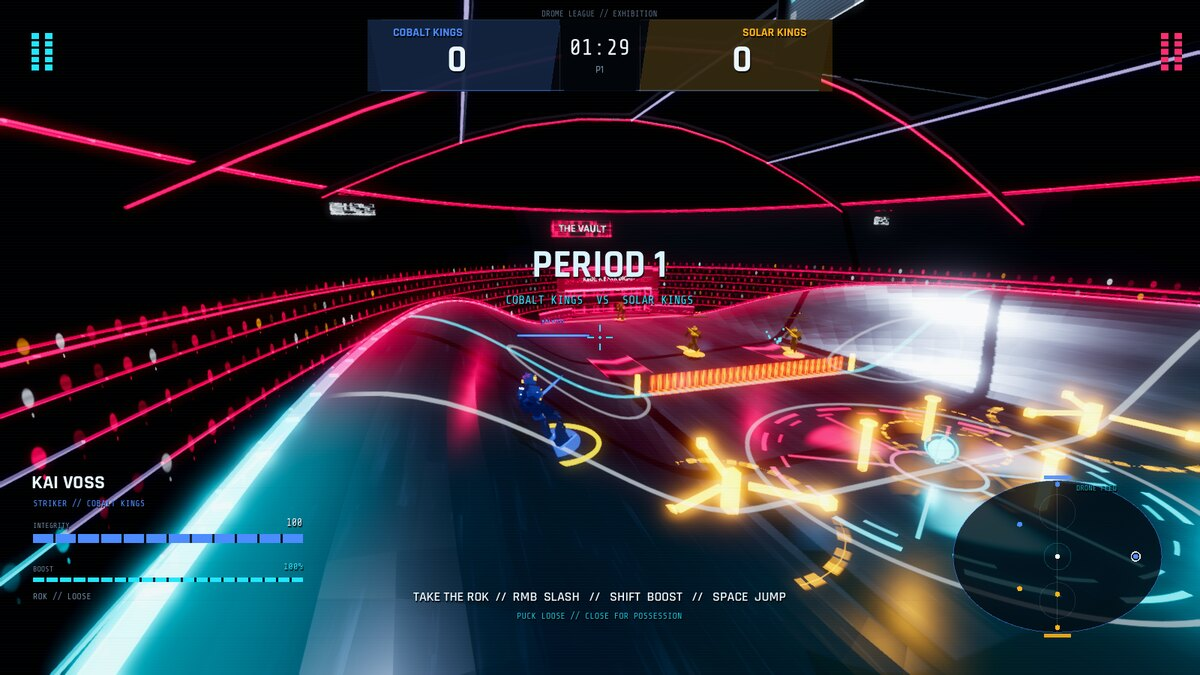
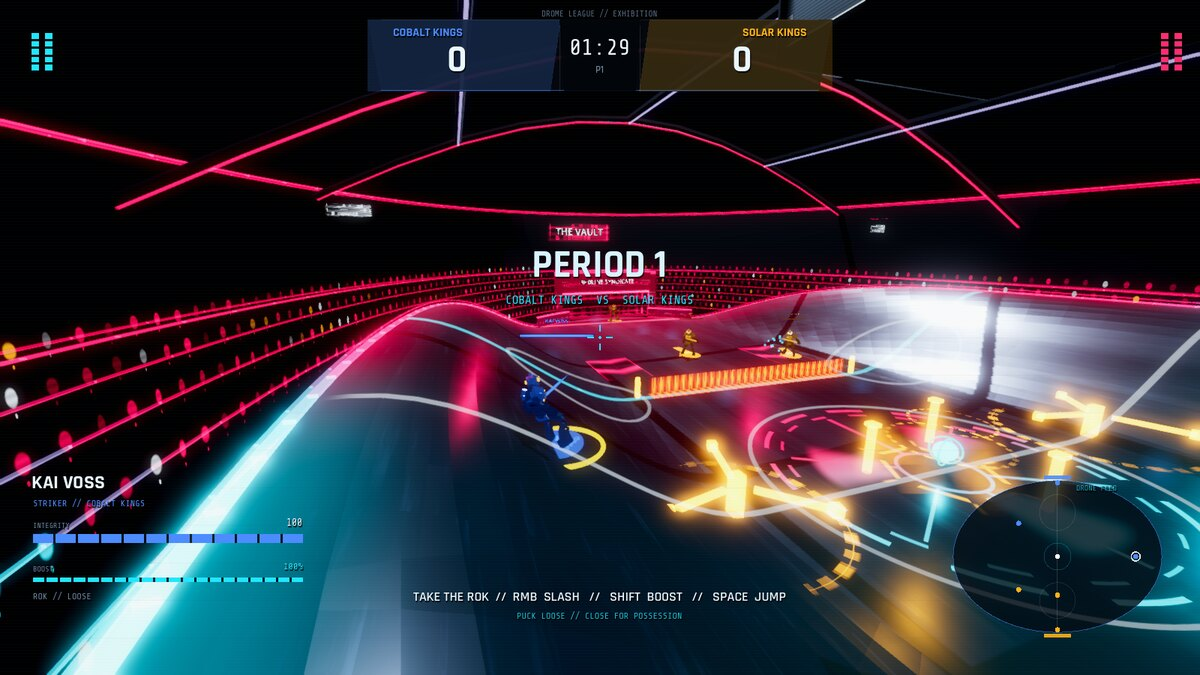
Add inline-skate locomotion and glowing wheels
- Generate a 21st shared animation clip, "skate", on top of the ActionForge rig:
  neutral gliding legs, alternating side pushes, knee bend and a free-arm
  counter-swing. Map both skate and sprint states to this cycle instead of
  jog_fwd/sprint run clips; low-speed skate no longer falls back to walk.
- Replace the long ice blade with a futuristic inline frame and four glowing
  team-coloured wheels per boot (same merged blade mesh, no extra draw calls).
- Momentum model: lower glide drag (3.0 m/s²) when input is released, hard
  braking (30 m/s²) when pushing against momentum, higher base speed, and an
  edge lean driven by steering.
- Pull the chase camera in (6.6 m / 2.7 m height) so the skating stance and
  wheels are readable during play.
- Add integration checks for skate state/clip, coasting and speed build; extend
  team-bowl evidence with 09-skate and 10-skate-close captures.
- Final export 124,319,008 bytes SHA-256
  6F6D1860A49842FAE30C52E5D8C26A8D8D73967EBA7C57350A9ED23F984D8BEE.
  Verified: selftest 18/18, integration 42/42, skater 94/94 (21 clips),
  arena 36/36, audio 121/121, exported smoke PASS, demo muted=true.

diff --git a/docs/EVIDENCE.md b/docs/EVIDENCE.md
@@ -24,7 +24,7 @@ quality claim beyond what is written here. Timestamps are local (America/Chicago
 | --- | --- | --- |
 | Headless boot/import | `godot_console.exe --headless --path game --import` | exit 0 |
 | Core selftest | `godot_console.exe --headless --path game -- --selftest` | exit 0; 18/18 checks; `ULTRABLADE_SELFTEST_OK checks=18 failures=[]` |
-| End-to-end integration | `godot_console.exe --headless --path game -s res://tools/integration_test.gd` | exit 0; **38/38** checks; `ULTRABLADE_INTEGRATION_OK checks=38 failures=[]`, no leak warnings on the final run |
+| End-to-end integration | `godot_console.exe --headless --path game -s res://tools/integration_test.gd` | exit 0; **42/42** checks; `ULTRABLADE_INTEGRATION_OK checks=42 failures=[]`; includes skate state/clip, LMB slash animation, glide coast and bank landing |
 | AI demo | `godot_console.exe --headless --path game -- --demo-seconds 8 --demo` | exit 0; `ULTRABLADE_DEMO_OK ... state=goal ... score=0-1 ... saw_pickup=true saw_shot=true saw_hit=true saw_goal=true` |
 
 The integration test boots the real `main.tscn`, injects synthetic keyboard/mouse input through
@@ -46,9 +46,11 @@ Godot's Input system, and checks:
 11. Skating through the killball charger arms the puck.
 12. Pause/resume changes state.
 13. Both enemy forwards down + a goal flags annihilation and ends the match.
-14. The pause menu has three audio sliders; moving MASTER updates the setting and the real
+14. The player enters `skate` state with clip `skate`, sustains momentum after input release
+    (`skates_glide_coast`) and builds speed (`skates_build_speed`).
+15. The pause menu has three audio sliders; moving MASTER updates the setting and the real
     AudioServer master bus to ~0.55.
-15. MUSIC is applied to its bus and persisted; the mute toggle toggles the real master bus.
+16. MUSIC is applied to its bus and persisted; the mute toggle toggles the real master bus.
 
 ## Drome / video reference pass
 
@@ -65,18 +67,21 @@ Godot's Input system, and checks:
   skater_lands_on_bank and bowl_bank_normal checks pass.
 - Captures: 07-bank-ride.png has the controlled skater at x=12, y=2.642 m with team-coloured
   Cobalt Kings vs Solar Kings HUD; 06-team-select.png shows the title-screen squad selector.
+- **Inline skating:** a generated 21st animation (`skate`) replaces the stock run for `skate` and
+  `sprint`; four glowing wheels per boot; no-input drag is 3.0 m/s² (coast) while opposing input
+  brakes at 30 m/s². Integration checks the clip/state and that momentum survives release.
 
 ## Repository hygiene
 
-- `python scripts/check_repo.py` → **PASS**: 143 UTF-8 text files with no BOM and no CR; 64 binary
-  files skipped; 18 relative Markdown links resolve; `CHECK_REPO_OK`.
+- `python scripts/check_repo.py` → **PASS**: 143 UTF-8 text files with no BOM and no CR; 68 binary
+  files skipped; 21 relative Markdown links resolve; `CHECK_REPO_OK`.
 
 ## Windowed presentation
 
 - `godot_console.exe --path game -- --capture` (windowed, Vulkan/Forward+, T600) → exit 0.
-- Eight 1600×900 PNGs written to `artifacts/captures/`:
-  `01-menu.png`, `02-gameplay.png`, `03-goal.png`, `04-broadcast.png`, `05-pause.png`,
-  `06-team-select.png`, `07-bank-ride.png`, `08-slash.png`.
+- Ten 1600×900 PNGs written to `artifacts/captures/`:
+  `01-menu.png` … `08-slash.png`, `09-skate.png` (in-match skate cycle),
+  `10-skate-close.png` (close-up wheels/pose).
 - `godot_console.exe --path game -s res://tools/volume_preview.gd` (windowed) → exit 0;
   `05-pause.png` captures the pause **AUDIO MIX** with MASTER 65%, MUSIC 50%, SFX 80%;
   compressed as `docs/media/pause.jpg`.
@@ -85,9 +90,9 @@ Godot's Input system, and checks:
   in the README as `docs/media/characters.jpg`.
 - `godot_console.exe --path game -s res://tools/team_bowl_preview.gd` (windowed) → exit 0;
   `06-team-select.png` (Cobalt Kings vs Solar Kings) and `07-bank-ride.png` (controlled skater
-  at x=12, y=2.642 m) and `08-slash.png` (close attack stance, state `slash`, clip
-  `sword_regular_a`). Compressed into `docs/media/team-select.jpg`, `bank-ride.jpg` and
-  `docs/media/slash.jpg`.
+  at x=12, y=2.642 m), `08-slash.png` (close attack stance, state `slash`, clip
+  `sword_regular_a`), `09-skate.png`/`10-skate-close.png` (state/clip `skate`). Compressed into
+  `docs/media/team-select.jpg`, `bank-ride.jpg`, `slash.jpg`, `skate.jpg`.
 - Volume/mix changes are saved to `user://settings.cfg` and applied to the Master/Music/SFX
   buses through `AudioDirector.set_volume/get_volume/set_muted`. Keyboard: `[` / `]` master,
   `M` mute.
@@ -105,7 +110,7 @@ Godot's Input system, and checks:
 | Subsystem | Exact command | Observed result |
 | --- | --- | --- |
 | Arena builder | `godot_console.exe --headless --path game res://tools/arena_preview.tscn -- --selftest` | exit 0, empty stderr; `ARENA_SELFTEST_OK`; **36/36 checks**; **31 draws, 29,356 tris, 10 lights, 1,340 crowd instances, static_bodies=9, shapes=51**; true elliptical outline; curved `IceFloor` bowl AABB height > 2 m; goal areas at z=−30.5/+30.5; 4 spawn transforms per side; 4 boost pads; 4 hazards; bounds 16/30; no floor collider (match layer owns it) |
-| ActionForge skater integration | `godot_console.exe --headless --path game -s res://tools/skater_preview.gd` | exit 0, empty stderr; `SKATER_SELFTEST_PASS checks=93`; 20 clips; cold library 37.5 ms, cached 0.001 ms; per-model build 2.8–6.8 ms; 24 renderables/skater; 11 root-motion clips stripped. Combat-idle stance uses `sword_idle`; measured heights 1.88–1.94 m after the aggressive silhouette pass. |
+| ActionForge skater integration | `godot_console.exe --headless --path game -s res://tools/skater_preview.gd` | exit 0, empty stderr; `SKATER_SELFTEST_PASS checks=94`; 21 clips (20 ActionForge + generated inline-skate cycle); 24 renderables/skater; 11 root-motion clips stripped. `skate`/`sprint` use the generated cycle; measured heights 1.88–1.94 m. |
 | ActionForge skater preview scene | `godot_console.exe --headless --path game --quit-after 120 res://tools/skater_preview.tscn` | exit 0 |
 | Procedural audio | `godot_console.exe --headless --path game -s res://tools/audio_preview.gd` | `[AUDIO_PREVIEW] checks=121 fails=0`, `UB_AUDIO_PREVIEW_OK`, exit 0; 31 WAVs / 12.26 MB; 44.1 kHz 16-bit PCM; loops tagged forward |
 | Audio generation | `python tools/generate_audio.py --verify-only` | `VERIFY 31 assets, 12.26 MB ... PASS` |
@@ -117,8 +122,8 @@ Godot's Input system, and checks:
 - `build\UltraBlade.exe --headless -- --selftest` → exit 0; same 18/18 marker.
 - The export uses the pinned 4.7.2 Windows Desktop template from this machine.
 
-Final export: **124,314,976 bytes**, SHA-256
[1 lines of base64/hex data omitted]
+Final export: **124,319,008 bytes**, SHA-256
[1 lines of base64/hex data omitted]
 The exported binary was also run windowed in capture mode, and wrote the 1600×900 presentation
 PNGs, proving that the packaged project loads its bowl arena, skater models, audio and HUD outside
 the editor.

diff --git a/docs/HYPERBLADE-VIDEO-NOTES.md b/docs/HYPERBLADE-VIDEO-NOTES.md
@@ -39,7 +39,14 @@ The bowl is not one smooth blank half-pipe. It has:
 The goal-to-goal straight is readable, but the sides are open, high-speed space. Combat and puck
 carries spill up the banks rather than being bounded by a flat rectangle.
 
-### 3. Team diversity is part of the presentation
+### 3. Skating, not running
+
+Every player is on inline skates. The legs push out and glide rather than cycling through a
+running stride; the body sits lower, leans through turns and coast between strokes. Foot contact
+stays near the surface and the long bladed/wheeled boots are part of the silhouette. This is the
+movement mechanic the modern build was missing.
+
+### 4. Team diversity is part of the presentation
 
 The league final footage shows several uniform identities across the rosters. The gameplay clips
 show red/blue players, the trailer has green uniforms, and the arena/crowd uses the two competing
@@ -53,14 +60,14 @@ HUD names and scoreboard colours:
 | Home | Ice Saints, Cobalt Kings, Glacier Guard, Neon Oracle | cyan → electric blue, teal, ice |
 | Away | Redline Syndicate, Ember Legion, Crimson Choir, Solar Kings | red → orange, magenta, gold |
 
-### 4. Camera and read
+### 5. Camera and read
 
 The camera is a low, behind-the-skater broadcast chase view. A small rear-view inset sits in the
 upper right of the HUD. The player list, health pips and score bug are always visible, so combat
 information is never hidden. Our modern HUD keeps the same priority with a minimap instead of the
 rear-view inset.
 
-### 5. Goals and verticality
+### 6. Goals and verticality
 
 Goals are cut into the end of the drome and the centre lane stays low so the rok can be shot into
 them. The raised banks beside the goal lane create the characteristic "down in the trough" look;
@@ -78,6 +85,8 @@ players can carry the rok up a wall and attack from a raised angle.
 - **Hazards/pads** moved onto valid parts of the surface.
 - **Team selection** in the title menu, four squads per side, live uniform/HUD/scoreboard recolour.
 - **Bank-aware camera** clearance and deeper chase framing.
+- **Inline-skate locomotion**: procedural side-push skating cycle, four glowing wheels per boot,
+  low stance, momentum/coast physics and edge lean instead of the stock running clips.
 
 ## Deliberate differences
 

diff --git a/README.md b/README.md
@@ -48,9 +48,18 @@ shoulder blades, spiked crown helmets, slit visors, long serrated jaks and low, 
 stances. Role builds exaggerate the silhouette — enforcers are broader and caged, runners are
 slight, and goalies carry heavy pads and blockers.
 
+**Inline skating is the movement model.** Each skater wears four glowing futuristic wheels per
+boot and uses a procedural skating cycle rather than a run: pushes alternate out to the side,
+the body stays low and edges into turns, and momentum carries between strokes. Releasing the
+movement keys coasts instead of stopping dead; opposing input brakes hard.
+
 ![Gameplay in THE VAULT](docs/media/gameplay.jpg)
 
 ![Skater riding the banked bowl](docs/media/bank-ride.jpg)
+
+![Inline skating in THE VAULT](docs/media/skate.jpg)
+
+![Skate cycle phases: side push, glide, glowing wheels](docs/media/skate-cycle.jpg)
 
 ![Light slash: the jak arm swings through the attack](docs/media/slash.jpg)
 

diff --git a/docs/GAME-DESIGN.md b/docs/GAME-DESIGN.md
@@ -33,6 +33,13 @@ casualties. Give them both.
 | Overtime | Sudden-death 45 s if tied at the final horn |
 | Difficulty | One readable AI profile; speed/reaction scales with match phase |
 
+## Movement
+
+Skaters move on inline skates: low stance, alternating side pushes, glowing wheels, momentum that
+coasts when input is released, hard braking when pushing against momentum, and a body lean into
+turns. The animation layer generates a dedicated `skate` cycle from the ActionForge rig rather
+than using the stock run clips. Boost increases the cycle rate and adds the existing speed streak.
+
 ## Moves
 
 | Move | Effect |
